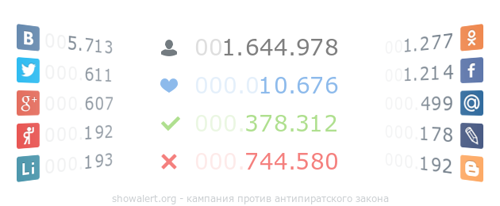
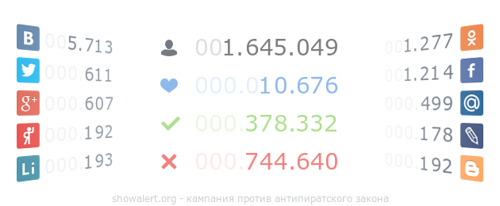
some updates

Changed region(s): [[0.54, 0.1748, 0.69, 0.2913], [0.57, 0.7282, 0.66, 0.8447], [0.6, 0.5534, 0.66, 0.6408]]

diff --git a/votes.js b/votes.js
@@ -1,1 +1,1 @@
-window.lk.votes(26920)
+window.lk.votes(26932)
